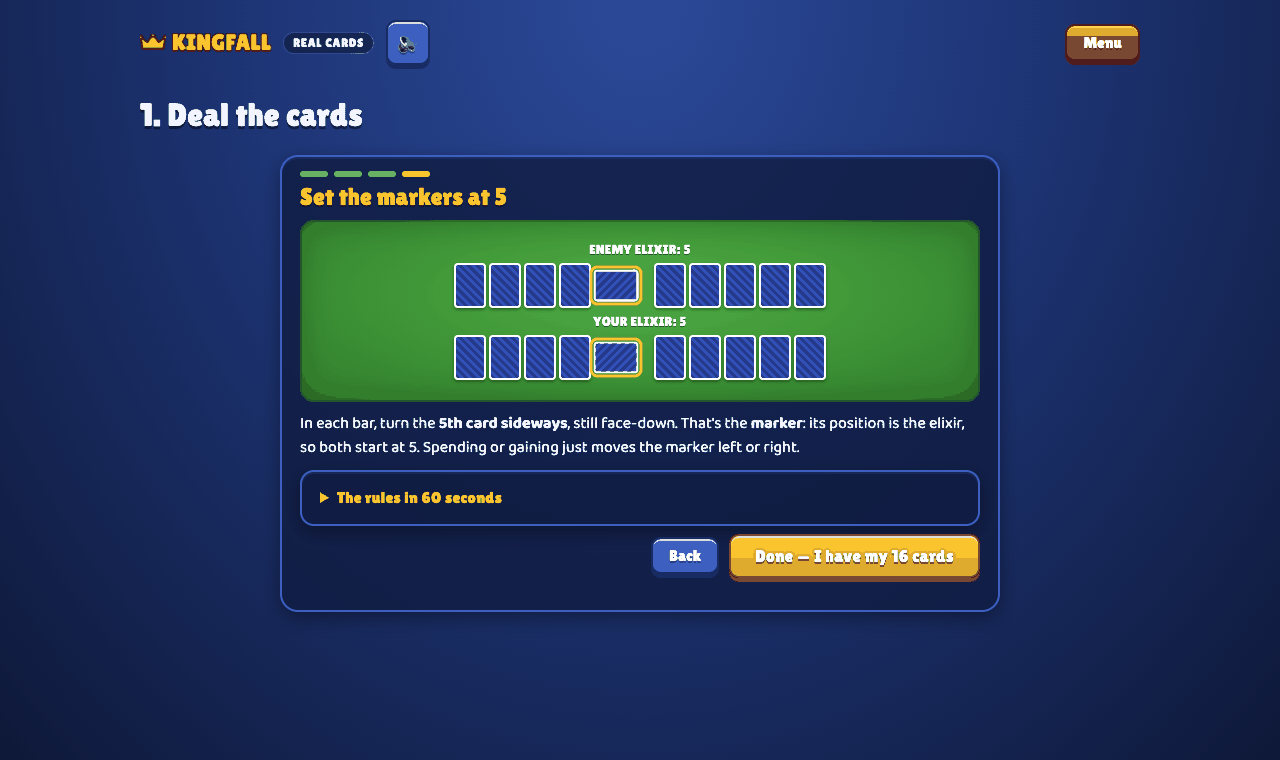
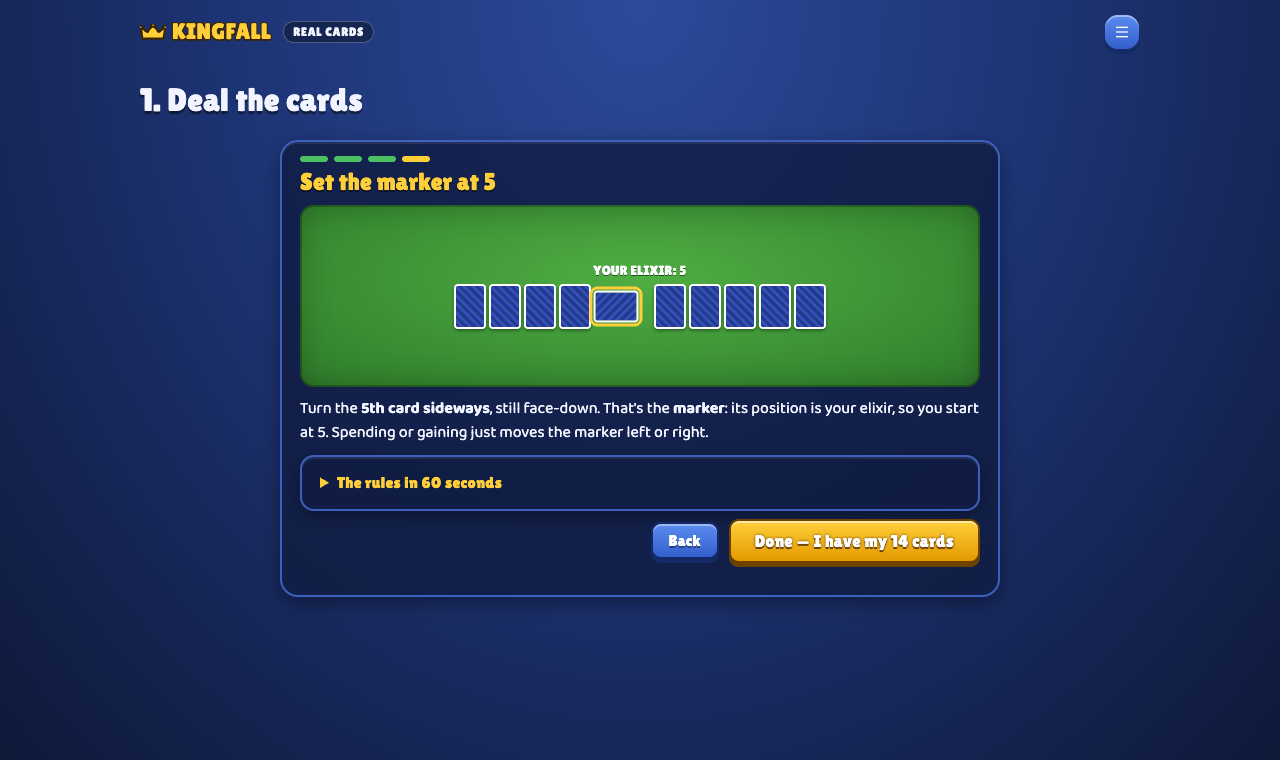
Update the README and its screenshots for the new rules: 14 cards each, one enemy card a round, towers that fight back, and a turn you can change until Done

diff --git a/README.md b/README.md
@@ -7,7 +7,7 @@
 Free, no sign-up, works on phones and desktops.
 
 <p align="center">
-  <img src="docs/screenshots/arena.png" alt="Kingfall on a phone: red enemy castles at the top, blue castles at the bottom, two lanes with a river, a ×2 suit bonus pop-up, the enemy's next card with its elixir cost in the middle and the hand of cards below" width="300" />
+  <img src="docs/screenshots/arena.png" alt="Kingfall on screen: red enemy castles at the top with cracked tower cards, blue castles at the bottom with one fallen, your card attacking an enemy tower, a ×2 suit bonus pop-up in the left lane, the enemy's face-up next card in the middle and your hand with the next card and the Done button below" width="300" />
   &nbsp;
   <img src="docs/screenshots/title.png" alt="Kingfall title screen with a gold crown logo and the Play, Play with real cards and How to play buttons" width="520" />
 </p>
@@ -24,25 +24,27 @@ Free, no sign-up, works on phones and desktops.
 - **Suit wheel:** a card of the suit that beats the other counts **double** in a fight: ♠ beats ♥, ♥ beats ♦, ♦ beats ♣, ♣ beats ♠.
 - **Aces beat picture cards** (J, Q, K) in a fight, whatever the suits.
 - **Elixir** pays for cards. A card costs about its rank (A=1, 5=4, K=10), and you get 3 more each round, up to 10.
+- **The enemy** has no elixir: it plays one card per round, the top of its pile, and that card is always face-up, so you know its next play.
 - **Each round:** you play cards into a lane, the enemy defends the lane where you pushed harder, everything moves, and the front cards fight. Cards that get through hit a tower.
-- **Towers:** a soldier breaks the top tower card if its rank is at least that card's. If not, the tower card cracks, and any later hit breaks it.
+- **Towers fight back:** a hit is a fight against the top tower card (the wheel and aces count). Win or tie and it breaks, and your card stays, wounded, for one more hit. Lose and the tower card cracks, and any later hit breaks it.
 
 Full rules: [RULEBOOK.md](RULEBOOK.md) · Printable rulebook (2 pages, A4): [print/Kingfall-Rulebook.pdf](print/Kingfall-Rulebook.pdf)
 
 ## Features
 
 - **Game feel:** "×2!", "ACE!", "CRACK" and "TOWER DOWN!" pop-ups, board shake and sound effects. Every fight also says in plain words why it was won.
-- **Arena view** on screen: castles with armor pips, two lanes with a river, an elixir bar and your hand with the next card. The purple elixir cost shows only where you need it: your hand, your next card and the enemy's next card. Cards already in the lanes stay clean.
-- **Deck building:** your 16 cards arrive split at random into a deck of 8 and three towers; building a good deck is up to you. Tap two cards to swap them and watch the average-cost meter. **Suggest** sets a good split once per hand. On screen, **Deal** shuffles all 52 cards and deals new hands, card by card, as often as you like.
+- **Arena view** on screen: castles with armor pips, two lanes with a river, an elixir bar and your hand with the next card. The purple elixir cost shows only where you need it: your hand and your next card. Cards already in the lanes stay clean. The cards about to fight tremble first, and a card attacking a tower waits in the slot next to it.
+- **Deck building:** your 14 cards arrive split at random into a deck of 8 and three towers of 2; building a good deck is up to you. Tap two cards to swap them and watch the average-cost meter. **Suggest** sets a good split once per hand. On screen, **Deal** shuffles all 52 cards and deals new hands, card by card, as often as you like.
 - **Installable app:** add it to your home screen (Install in the menu, or Share → Add to Home Screen on iPhone). After one visit it plays offline.
 - **Real-cards setup in pictures:** one step per screen, from shuffling to laying out the table.
-- **Undo and redo**, game saved in the browser, an optional suggested move, and a log of everything that happened.
-- **Balanced by simulation:** thousands of simulated games tuned the rules. Random play wins about 4%, a careful player about 85–90%.
+- **Change your mind until you tap Done:** drag a card you placed back to your hand or onto the other lane, or tap two cards to switch them. With real cards, undo and redo fix entry mistakes.
+- Game saved in the browser, an optional suggested move, and a log of everything that happened.
+- **Balanced by simulation:** thousands of simulated games tuned the rules. Games last about 12–17 rounds. Random play wins about 10%, a simple rule-follower about half, the app's suggestions about 80%, and every kind of deck (all cheap, mixed, all heavy) wins about as often: skill is in the playing.
 
 <p align="center">
-  <img src="docs/screenshots/deck.png" alt="Kingfall deck building screen: the 8 deck cards on top, the three towers with their armor cards under blue castles, and the average elixir cost meter with Start the game at the bottom" width="420" />
+  <img src="docs/screenshots/deck.png" alt="Kingfall deck building screen: the 8 deck cards on top, the three towers with two armor cards each under blue castles, and the average elixir cost meter with Start the game at the bottom" width="420" />
   &nbsp;
-  <img src="docs/screenshots/real-cards-setup.png" alt="Kingfall real-cards setup step: two rows of face-down cards as elixir bars with the 5th card turned sideways as the marker" width="420" />
+  <img src="docs/screenshots/real-cards-setup.png" alt="Kingfall real-cards setup step: a row of 10 face-down cards as your elixir bar with the 5th card turned sideways as the marker" width="420" />
 </p>
 
 ## Run it locally

diff --git a/app/README.md b/app/README.md
@@ -5,9 +5,9 @@ The web app for [Kingfall](../README.md), a one-player lane battle card game. Li
 It has two modes:
 
 - **On screen:** the app deals, runs the enemy and animates every fight in an upright arena. The first game teaches with one tip at a time.
-- **With real cards:** you play with a real 52-card deck. The app runs the enemy automaton and draws your table as you sit at it, every card where it lies and all the same size (elixir bars as 10 cards with a sideways marker, piles, tower fans, discards), and a panel over the hand tells you, step by step, what to move.
+- **With real cards:** you play with a real 52-card deck. The app runs the enemy automaton and draws your table as you sit at it, every card where it lies and all the same size (your elixir bar as 10 cards with a sideways marker, piles, tower fans, discards), and a panel over the hand tells you, step by step, what to move.
 
-It saves the game in the browser and has undo and redo.
+It saves the game in the browser. With real cards it has undo and redo; on screen your turn stays open until you tap Done, so you can take a card back or switch two.
 
 ## Commands
 
